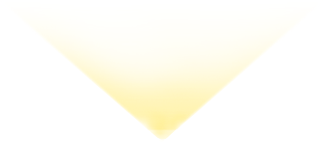
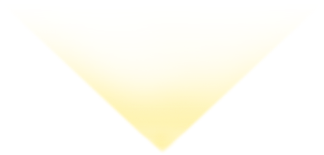
Landlord

diff --git a/SnakeAsianLeague/wwwroot/css/NFTindex/NFTindex_Landlord.css b/SnakeAsianLeague/wwwroot/css/NFTindex/NFTindex_Landlord.css
@@ -400,16 +400,16 @@
 
     position: absolute;
     transition: all .2s ease-in-out;
-    max-width: 230px;
-    bottom: -3px;
+    max-width: 280px;
+    bottom: 0px;
     left: 50%;
     transform: translateX(-50%);
     z-index: 2;
-    width: 70%;
+    width: 100%;
     transition: all .2s ease-in-out;
     animation: 
     LandlordType-item-light  1s linear 0s forwards,
-    LandlordType-item-light-02  3s linear 1s infinite ;
+    LandlordType-item-light-02  3s linear 1s infinite;
 }
 
 @keyframes LandlordType-item-light {
